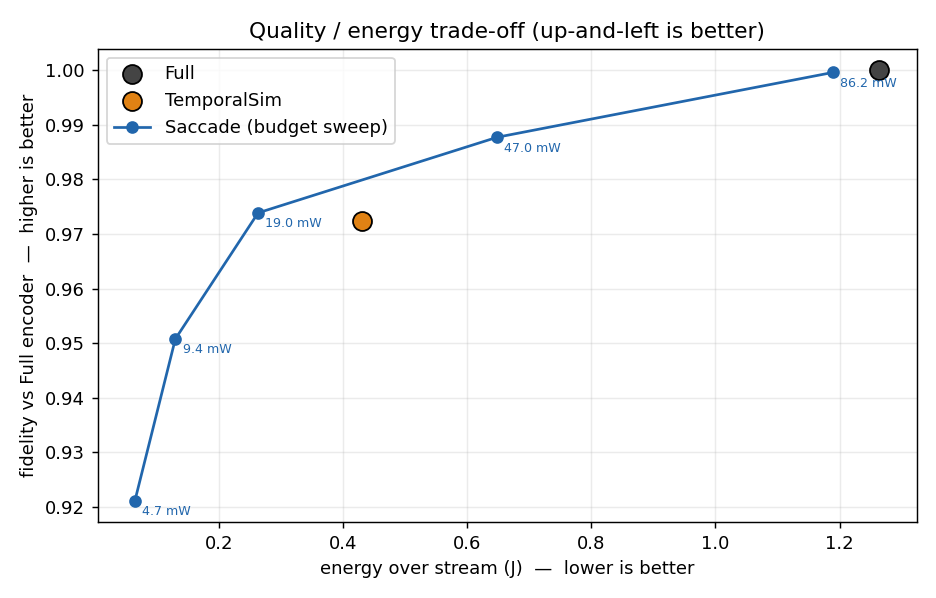
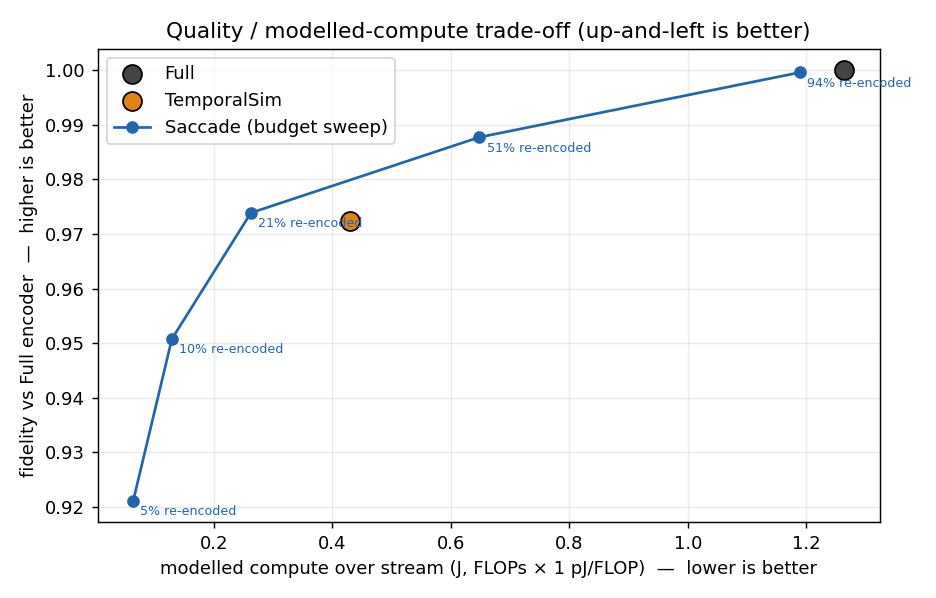
README: stop presenting modelled compute as energy, to match STATUS
The STATUS block says no energy-reduction figure is claimed, but the body
still presented the analytic FLOP x 1 pJ/FLOP numbers as physical energy,
power and battery runtime in eleven places. Labels are fixed; no measured
value is removed.

- TL;DR table: drop "Mean power" and "Runtime on 10 kJ" (both derived from
  the assumed coefficient, not measured); "Estimated energy (J)" becomes
  "Modelled compute (J, FLOPs x 1 pJ/FLOP)"
- "Energy saving" -> "Compute reduction (modelled)" (bullet, Claims table,
  tests/ comment); "power draw" -> "compute"; "39% less energy",
  "half the energy", "lower/same energy" -> modelled compute
- DINOv2 sweep points were given in mW; now given as % of patches
  re-encoded with modelled J alongside
- "the energy claim is measured without approximation" -> the compute
  reduction is realized as real computation, not an accounting approximation
- Honest caveats: point to STATUS
- embedded figures: quality_energy.png annotates points with % re-encoded
  instead of mW; demo GIF marks its mJ readout as modelled compute
- 1.65x vs TemporalSim was stale: the table on the same page gives
  0.430/0.263 = 1.635 and 33.9/20.7 = 1.638, so 1.64x

Unchanged: STATUS block, trust gate section, the why-temporal-similarity
figure and text, the budget guarantee, all fidelity numbers.
results.json measurements are byte-identical (only the no_gif flag in its
config block differs).

diff --git a/benchmarks/run.py b/benchmarks/run.py
@@ -127,11 +127,11 @@ def fig_quality_energy(res, summaries, sweep, path):
         ys = [s.mean_fidelity for s in sweep]
         ax.plot(xs, ys, "-o", color=COND_COLORS["Saccade"], label="Saccade (budget sweep)", zorder=2)
         for s in sweep:
-            ax.annotate(f"{s.mean_power_watts*1000:.1f} mW", (s.total_joules, s.mean_fidelity),
+            ax.annotate(f"{s.mean_encoded_fraction*100:.0f}% re-encoded", (s.total_joules, s.mean_fidelity),
                         fontsize=7, xytext=(4, -8), textcoords="offset points", color="#2166ac")
-    ax.set_xlabel("energy over stream (J)  —  lower is better")
+    ax.set_xlabel("modelled compute over stream (J, FLOPs × 1 pJ/FLOP)  —  lower is better")
     ax.set_ylabel("fidelity vs Full encoder  —  higher is better")
-    ax.set_title("Quality / energy trade-off (up-and-left is better)")
+    ax.set_title("Quality / modelled-compute trade-off (up-and-left is better)")
     ax.legend(); ax.grid(alpha=0.25)
     fig.tight_layout(); fig.savefig(path, dpi=130); plt.close(fig)
 
@@ -196,7 +196,7 @@ def make_gif(frames, res_b, res_c, labels, path, img_size, stride=2, max_frames=
         pad = np.full((44, img_size, 3), 245, np.uint8)
         img = np.vstack([pad, img])
         cv2.putText(img, title, (6, 16), cv2.FONT_HERSHEY_SIMPLEX, 0.5, (20, 20, 20), 1, cv2.LINE_AA)
-        cv2.putText(img, f"encode {enc_pct:4.0f}%   {cumj*1000:6.1f} mJ", (6, 36),
+        cv2.putText(img, f"encode {enc_pct:4.0f}%  {cumj*1000:6.1f} mJ*", (6, 36),
                     cv2.FONT_HERSHEY_SIMPLEX, 0.45, (150, 30, 30), 1, cv2.LINE_AA)
         return img
 
@@ -209,8 +209,8 @@ def make_gif(frames, res_b, res_c, labels, path, img_size, stride=2, max_frames=
         sep = np.full((left.shape[0], 4, 3), 255, np.uint8)
         combo = np.hstack([left, sep, right])
         band = np.full((22, combo.shape[1], 3), 255, np.uint8)
-        cv2.putText(band, f"segment: {labels[i]}   (red = patches re-encoded this frame)", (6, 15),
-                    cv2.FONT_HERSHEY_SIMPLEX, 0.42, (60, 60, 60), 1, cv2.LINE_AA)
+        cv2.putText(band, f"segment: {labels[i]}   red = re-encoded   *modelled compute, 1 pJ/FLOP",
+                    (6, 15), cv2.FONT_HERSHEY_SIMPLEX, 0.38, (60, 60, 60), 1, cv2.LINE_AA)
         combo = np.vstack([combo, band])
         gif_frames.append(Image.fromarray(combo))
     gif_frames[0].save(path, save_all=True, append_images=gif_frames[1:], duration=120, loop=0)

diff --git a/README.md b/README.md
@@ -27,7 +27,7 @@
 **An always-on edge VLM driven by prediction-error gating and an energy budget.**
 *Predict what the next frame will look like; spend compute only where you were wrong; never exceed your energy budget.*
 
-Saccade borrows a trick from biological vision — the world stays smoothly predictable while your head moves — and cuts the power draw of an always-on edge VLM by **never re-encoding a patch it could predict**. The key is *ego-motion compensation*: when the camera moves, almost every pixel changes, but **subtract the motion and the residual of a static world is nearly zero**. Existing "frame-similarity" skipping cannot skip steady motion at all; Saccade skips most of it.
+Saccade borrows a trick from biological vision — the world stays smoothly predictable while your head moves — and cuts the compute of an always-on edge VLM by **never re-encoding a patch it could predict**. The key is *ego-motion compensation*: when the camera moves, almost every pixel changes, but **subtract the motion and the residual of a static world is nearly zero**. Existing "frame-similarity" skipping cannot skip steady motion at all; Saccade skips most of it.
 
 ---
 
@@ -52,19 +52,19 @@ in core 1 below.
 
 ## TL;DR (synthetic walking stream, CPU, ViT-S/16-class encoder)
 
-| Method | Patches re-encoded | Fidelity vs Full | Estimated energy (J) | Mean power | **Runtime on 10 kJ** |
-|---|---|---|---|---|---|
-| **(A) Full** (encode everything, every frame) | 100.0% | 1.000 | 1.264 | 91.6 mW | 30.3 h |
-| **(B) TemporalSim** (same-position frame-diff skipping) | 33.9% | 0.9723 | 0.430 | 31.2 mW | 89.1 h |
-| **(C) Saccade** (prediction-error gate + IMU compensation + budget control) | **20.7%** | **0.9739** | **0.263** | **19.1 mW** | **145.8 h** |
+| Method | Patches re-encoded | Fidelity vs Full | Modelled compute (J, FLOPs × 1 pJ/FLOP) |
+|---|---|---|---|
+| **(A) Full** (encode everything, every frame) | 100.0% | 1.000 | 1.264 |
+| **(B) TemporalSim** (same-position frame-diff skipping) | 33.9% | 0.9723 | 0.430 |
+| **(C) Saccade** (prediction-error gate + IMU compensation + budget control) | **20.7%** | **0.9739** | **0.263** |
 
-- **Energy saving**: 4.8× less compute than Full and 1.65× less than TemporalSim,
-- **Quality preservation**: *higher* fidelity than TemporalSim (0.9739 vs 0.9723) while spending 39% less energy — better on both axes,
+- **Compute reduction (modelled)**: 4.8× fewer patch encodes than Full and 1.64× fewer than TemporalSim,
+- **Quality preservation**: *higher* fidelity than TemporalSim (0.9739 vs 0.9723) while spending 39% less modelled compute — better on both axes,
 - **Budget guarantee**: zero budget violations with the controller on (the strict invariant holds for every budget from 0.05 W down to 0.0001 W).
 
 > **Try it in your browser: [🤗 interactive demo](https://huggingface.co/spaces/NagaYu/saccade)** — sweep τ and the energy budget, or switch motion compensation off and watch the advantage disappear.
 
-> Numbers are stored in `benchmarks/results.json`. Energy comes from an analytic FLOP model × `1 pJ/FLOP` (a reasonable figure for efficient mobile inference; change it with `--j-per-flop`).
+> Numbers are stored in `benchmarks/results.json`. The J column is modelled compute: an analytic FLOP model × `1 pJ/FLOP` (a reasonable figure for efficient mobile inference; change it with `--j-per-flop`). It is not a measurement of energy.
 
 ---
 
@@ -83,10 +83,10 @@ This is the heart of Saccade: don't ask "did the pixels change?" — ask "**did 
 
 During `walk`/`turn` (predictable ego-motion) segments, **B is stuck re-encoding 42–64%** while **C thins the load to ~14%**. On `static` (no motion) and `event` (an independently moving object = genuine change) segments the two behave almost identically — i.e. C **still catches real change** (no cheating).
 
-### Quality / energy trade-off
-![quality vs energy](figures/quality_energy.png)
+### Quality / modelled-compute trade-off
+![quality vs modelled compute](figures/quality_energy.png)
 
-Just by varying the budget B, Saccade sweeps a Pareto frontier that **dominates** TemporalSim's single operating point (same quality at lower energy, or higher quality at the same energy).
+Just by varying the budget B, Saccade sweeps a Pareto frontier that **dominates** TemporalSim's single operating point (same quality at lower modelled compute, or higher quality at the same modelled compute).
 
 ### Webcam-style demo (B vs C; red = patches re-encoded this frame)
 ![demo](figures/saccade_demo.gif)
@@ -130,11 +130,11 @@ flowchart TB
 
 ## Claims → code (every function's docstring states which claim it demonstrates)
 
-Docstrings tag claims with their Japanese research labels: 省エネ = energy saving, 品質保持 = quality preservation, 予算保証 = budget guarantee.
+Docstrings tag claims with their Japanese research labels: 省エネ = compute reduction (modelled) — the tag literally reads "energy saving", but in this project it only ever refers to modelled compute; 品質保持 = quality preservation; 予算保証 = budget guarantee.
 
 | Claim | Where it is demonstrated |
 |---|---|
-| **Energy saving** | `gate.py` (encode only the surprising few), `kv_remap.py` (motion compensation cuts recomputation), `flops.py` (FLOP→J is monotone in encode count) |
+| **Compute reduction (modelled)** | `gate.py` (encode only the surprising few), `kv_remap.py` (motion compensation cuts recomputation), `flops.py` (FLOP→J is monotone in encode count) |
 | **Quality preservation** | `predictor.py` (predicts values for un-encoded patches), fidelity in `engine.py` (cosine of reconstruction vs Full), the gate's task-aware/forced paths |
 | **Budget guarantee** | `energy_controller.py` (token bucket enforces `cum_J ≤ B·t + E0` by construction; on starvation, frame-drop yields an anytime degraded output) |
 
@@ -164,7 +164,7 @@ Docstrings tag claims with their Japanese research labels: 省エネ = energy sa
 
 4. **Energy budget controller** — `energy_controller.py`
    Simple energy model: `J = (encoder + LLM-prefill FLOPs) × [J/FLOP]`. Given a budget `B [J/s]`:
-   **(1) soft loop** — proportional control adapts τ so average power tracks B (spend the budget you have; maximize utility);
+   **(1) soft loop** — proportional control adapts τ so average modelled power tracks B (spend the budget you have; maximize utility);
    **(2) hard cap** — a token bucket (capacity `E0 = reserve·B`, refill `B/fps` per frame) enforces
    `cumulative energy ≤ B·t + E0` for all t **by construction**. When the bucket runs dry the frame is dropped entirely and the previous cache is returned as an **anytime degraded output** (there is always a valid output).
 
@@ -200,16 +200,17 @@ pytest -q
   **Verified**: the full pipeline runs end-to-end on `facebook/dinov2-small` (grid 16×16, D=384;
   44-frame short stream; measurements in [benchmarks/results_dinov2.json](benchmarks/results_dinov2.json)).
   On real DINOv2 features Saccade **beats TemporalSim on both axes at once**: fidelity 0.837 vs
-  0.834 while spending **half the energy** (0.065 J vs 0.130 J, i.e. 14.0% vs 27.9% of patches
-  re-encoded). The budget sweep traces the full frontier — 0.638 @ 4.8 mW, 0.837 @ 17.2 mW,
-  0.907 @ 39.3 mW, 0.972 @ 80.0 mW — with zero budget violations at every setting.
+  0.834 while spending **half the modelled compute** (0.065 J vs 0.130 J of modelled compute,
+  i.e. 14.0% vs 27.9% of patches re-encoded). The budget sweep traces the full frontier —
+  fidelity 0.638 / 0.837 / 0.907 / 0.972 at 3.8% / 14.0% / 32.2% / 65.5% of patches re-encoded
+  (0.018 / 0.065 / 0.150 / 0.304 J of modelled compute) — with zero budget violations at every setting.
   This is where the learned predictor earns its keep: unlike the synthetic encoder, real ViT
   tokens mix global context through self-attention, so the spatial warp is lossy and there is
   genuine structure left to predict (+0.0170 fidelity from the published checkpoint; see the
   [model card](https://huggingface.co/NagaYu/saccade-predictor)).
   Vision towers of VLMs such as moondream2 / SmolVLM can be swapped in through the same API (patch-token exposure).
 
-> **Why is the default synthetic?** The algorithms (predictive gating / motion compensation / budget control) are backbone-agnostic. With the synthetic encoder each patch is an independent function of its pixels, so **subset encoding realizes the savings as real computation** — the energy claim is measured without approximation. The real-ViT path shows the same machinery running on genuine semantics (best for checking quality preservation).
+> **Why is the default synthetic?** The algorithms (predictive gating / motion compensation / budget control) are backbone-agnostic. With the synthetic encoder each patch is an independent function of its pixels, so **the compute reduction is realized as real computation, not as an accounting approximation**. The real-ViT path shows the same machinery running on genuine semantics (best for checking quality preservation).
 
 ---
 
@@ -231,14 +232,14 @@ benchmarks/
   run.py               # A/B/C comparison, figures, GIF, results.json
   results.json         # latest measurements
 figures/               # generated artifacts (PNGs + demo GIF)
-tests/                 # pytest (verifies energy saving / quality preservation / budget guarantee)
+tests/                 # pytest (verifies compute reduction / quality preservation / budget guarantee)
 ```
 
 ---
 
 ## Honest caveats
 
-- **Energy is an analytic model**: estimated as `FLOPs × [J/FLOP]`, not measured Joules. The relative comparison (A/B/C) and the budget-guarantee logic are sound; absolute values depend on the coefficient (`--j-per-flop`).
+- **Energy is an analytic model**: estimated as `FLOPs × [J/FLOP]`, not measured Joules. The relative comparison (A/B/C) and the budget-guarantee logic are sound; absolute values depend on the coefficient (`--j-per-flop`). See STATUS at the top.
 - **Token-caching approximation**: in a real ViT, self-attention mixes patch tokens, so subset-encode savings are accounted as "recompute only that token, reuse cached KV for the rest". Realizing this on hardware needs block-sparse attention (this prototype measures *decision quality* and *modelled energy*). The synthetic backbone realizes the savings as real computation.
 - **Synthetic stream**: the default input is a deterministic synthetic "walking" video (explicitly labelled as such), chosen to evaluate the steady-motion regime reproducibly. Real webcam/mp4 inputs run through the identical pipeline.
 - **No reliance on server-side long-video QA**: nothing here depends on or imitates V-Rex / StreamingTOM-style long-form video QA. The focus is the always-on edge setting.
